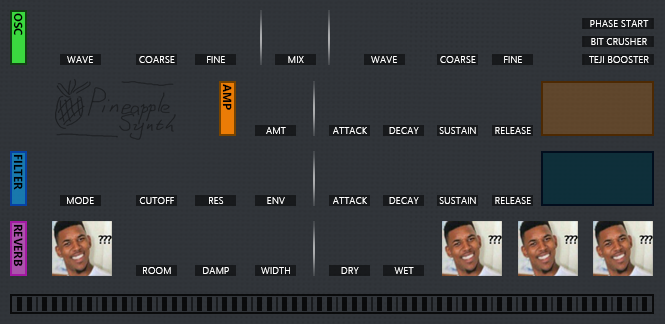
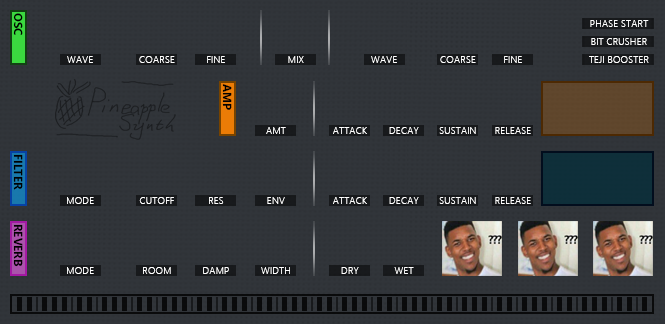
allowed disable reverb fx. dont alloc memory everytime call PDR func (maybe faster?).

Changed region(s): [[0.0602, 0.679, 0.1805, 0.8642]]

diff --git a/Synthesis.cpp b/Synthesis.cpp
@@ -44,6 +44,7 @@ enum EParams
 	mVerbWidth,
 	mVerbDry,
 	mVerbWet,
+	mVerbOn,
 	kNumParams
 };
 
@@ -87,6 +88,7 @@ Synthesis::Synthesis(IPlugInstanceInfo instanceInfo)
 	IBitmap waveformBitmap = pGraphics->LoadIBitmap(WAVEFORM_ID, WAVEFORM_FN, 5);
 	IBitmap filtermodeBitmap = pGraphics->LoadIBitmap(FILTERMODE_ID, FILTERMODE_FN, 3);
 	IBitmap switcherLightBitmap = pGraphics->LoadIBitmap(SWITCHER_LIGHT_ID, SWITCHER_LIGHT_FN, 2);
+	IBitmap switcherOnOffBitmap = pGraphics->LoadIBitmap(SWITCHER_ONOFF_ID, SWITCHER_ONOFF_FN, 2);
 
 	// OSC1 Waveform switch
 	GetParam(mOsc1Waveform)->InitEnum("Waveform1", Oscillator::OSCILLATOR_MODE_SINE, Oscillator::kNumOscillatorModes);
@@ -214,6 +216,11 @@ Synthesis::Synthesis(IPlugInstanceInfo instanceInfo)
 	pGraphics->AttachControl(filterEnvAdsrVisualization);
 
 	// Reverb
+	// Reverb switch
+	GetParam(mVerbOn)->InitEnum("Reverb On/Off", 0, 2);
+	GetParam(mVerbOn)->SetDisplayText(0, "On"); 
+	pGraphics->AttachControl(new ISwitchControl(this, 42, kPurpleRow + kSwitcherTopPadding, mVerbOn, &switcherOnOffBitmap));
+
 	GetParam(mVerbRoomSize)->InitDouble("Room Size", 0.5, 0.3, 0.99, 0.001);
 	pGraphics->AttachControl(new IKnobMultiControl(this, 137, kPurpleRow, mVerbRoomSize, &purpleKnobBitmap));
 	GetParam(mVerbDamp)->InitDouble("Dampening", 0.5, 0., 1., 0.001);
@@ -241,7 +248,10 @@ Synthesis::Synthesis(IPlugInstanceInfo instanceInfo)
 
 }
 
-Synthesis::~Synthesis() {}
+Synthesis::~Synthesis() {
+	if (ori_l != nullptr) free(ori_l);
+	if (ori_r != nullptr) free(ori_r);
+}
 
 void Synthesis::ProcessDoubleReplacing(double** inputs, double** outputs, int nFrames)
 {
@@ -255,30 +265,32 @@ void Synthesis::ProcessDoubleReplacing(double** inputs, double** outputs, int nF
 		return; // MIDIReceiver.
 	}
 	*/
-	double* ori_l;
-	double* ori_r;
-	ori_l = (double*)malloc(nFrames * sizeof(double));
-	ori_r = (double*)malloc(nFrames * sizeof(double));
 	
+	// don't alloc new mem space every time we call ProcessDoubleReplacing. Will faster?
+	if (ori_l == nullptr || sizeof(*ori_l) != nFrames * sizeof(double)) ori_l = (double*)malloc(nFrames * sizeof(double));
+	if (ori_r == nullptr || sizeof(*ori_r) != nFrames * sizeof(double)) ori_r = (double*)malloc(nFrames * sizeof(double));
+
 	double *leftOutput = outputs[0];
 	double *rightOutput = outputs[1];
+	bool verbFxOn = GetParam(mVerbOn)->Int() == 0;
 
 	processVirtualKeyboard();
 	for (int i = 0; i < nFrames; ++i) {
 		mMIDIReceiver.advance();
 		
-		ori_l[i] = ori_r[i] = leftOutput[i] = rightOutput[i] = voiceManager.nextSample();
-		
-		// Reverb
-		mVerbEngine.ProcessSample(leftOutput + i, rightOutput + i);
-		// Mix dry/wet
-		leftOutput[i] = mDry * ori_l[i] + mWet * leftOutput[i];
-		rightOutput[i] = mDry * ori_r[i] + mWet * rightOutput[i];
-		
-	}
+		if (!verbFxOn) {
+			//Off
+			leftOutput[i] = rightOutput[i] = voiceManager.nextSample();
+		} else {
+			ori_l[i] = ori_r[i] = leftOutput[i] = rightOutput[i] = voiceManager.nextSample();
 
-	free(ori_l);
-	free(ori_r);
+			// Reverb
+			mVerbEngine.ProcessSample(leftOutput + i, rightOutput + i);
+			// Mix dry/wet
+			leftOutput[i] = mDry * ori_l[i] + mWet * leftOutput[i];
+			rightOutput[i] = mDry * ori_r[i] + mWet * rightOutput[i];
+		}
+	}
 
 	mMIDIReceiver.Flush(nFrames);
 }

diff --git a/resource.h b/resource.h
@@ -71,6 +71,7 @@ instrument determined by PLUG _IS _INST
 #define BLUE_KNOB_CENTER_ID  109
 #define GREEN_KNOB_CENTER_ID 110
 #define SWITCHER_LIGHT_ID    111
+#define SWITCHER_ONOFF_ID    112
 
 // Image resource locations for this plug.
 #define BG_FN         "resources/img/bg.png"
@@ -84,6 +85,7 @@ instrument determined by PLUG _IS _INST
 #define GREEN_KNOB_CENTER_FN  "resources/img/greenknob-center0.png"
 #define BLUE_KNOB_CENTER_FN  "resources/img/blueknob-center0.png"
 #define SWITCHER_LIGHT_FN "resources/img/switcherlight.png"
+#define SWITCHER_ONOFF_FN "resources/img/switcheronoff.png"
 
 // GUI default dimensions
 #define GUI_WIDTH 665

diff --git a/Synthesis.h b/Synthesis.h
@@ -29,6 +29,7 @@ public:
 private:
 	WDL_ReverbEngine mVerbEngine;
 	double mDry = 1., mWet = 0.5; 
+	double *ori_l = nullptr, *ori_r = nullptr; // to make free alloced space easy.
 	double mFrequency;
 	void CreatePresets();
 	VoiceManager voiceManager;
